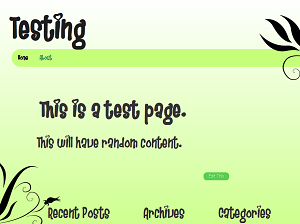
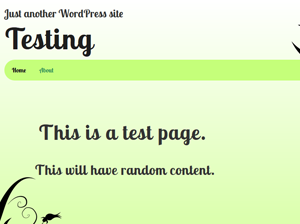
Bugfixing done.

diff --git a/style.css b/style.css
@@ -1,10 +1,10 @@
 /*
 Theme Name: Creative Foliage
 Theme URI: http://www.aniketpant.com/creative-foliage
-Description: My first theme
+Description: A clean, simple theme
 Author: Aniket Pant
 Author URI: http://www.aniketpant.com/
-Version: 1.0
+Version: 1.2
 Tags: green, one-column, fixed-width, threaded-comments, custom-menu, translation-ready
 License: GPL
 License URI: ?
@@ -40,13 +40,15 @@ h1, h2, h3, h4, h5, h6 { font-weight: normal; }
 
 body { 
 	color: #333333;
-	font: 14px/28px 'Quattrocento Sans', Georgia, 'Times New Roman', Times, serif;
+	font: 14px/28px 'Quattrocento Sans', Calibri, sans-serif;
 	background-image: -moz-linear-gradient(100% 100% 90deg, #c5ff7a, #fff);
+        overflow-x: hidden;
 }
 
 body p {
 	font-size: 16px;
 	line-height: 18px;
+        font-family: 'Quattrocento Sans', Calibri, sans-serif;
         text-rendering: optimizeLegibility;
 }
 
@@ -89,7 +91,7 @@ h6 { font-size: 16px; }
 #header h1,
 .hentry h2,
 h3 {
-	font-family: 'Lobster Two', Arial, Helvetica, sans-serif; /* Lobster Two is called via @font-face */
+	font-family: 'Lobster Two', Calibri, sans-serif
 }
 
 hr { border: 0 solid #ccc; border-top-width: 1px; clear: both; height: 0; }
@@ -119,31 +121,35 @@ pre code { background: none; }
 code { background: none; font-size: 12px; }
 
 blockquote {
-	border-left: 4px solid #32CD32;
-	border-bottom: 1px solid #32CD32;
-	color: #424242;
-	font-style: italic;
-	padding: 15px 0 10px 10px;
-	margin-left: 20px;
-	text-indent: 10px;
-	-webkit-box-shadow: inset 1px -1px 1px rgba(255, 255, 255, 0.65);
-	-moz-box-shadow: inset 1px -1px 1px rgba(255, 255, 255, 0.65);
-	box-shadow: inset 1px -1px 1px rgba(255, 255, 255, 0.65);
+		border-top: 5px solid #000;
+		border-bottom: 5px solid #000;
+		margin: 1em;
+		width: 300px;
+		clear: both;
 }
 
-blockquote p { margin: 0; }
+blockquote:nth-of-type(2n+1) {
+		float: left;
+}
+
+blockquote:nth-of-type(2n) {
+		float: right;
+}
+
+blockquote p { margin: 0; padding: 0.5em; }
 
 /* Header */
 
 #header {
 	height: 115px;
+	position: relative;
 }
 
 #header h1 a {
+	position: absolute;
 	color: #1e1e1e;
 	font-size: 76px;
 	font-weight: bold;
-	float: left;
 	margin-top: 65px;
 	padding: 20px 2px;
 	letter-spacing: 2px;
@@ -159,6 +165,10 @@ blockquote p { margin: 0; }
 	-moz-transform: rotate(15deg);
         -o-transform: rotate(15deg);
 	transform: rotate(15deg);
+}
+
+#header h2 {
+        font-family: 'Lobster Two', Calibri, sans-serif;
 }
 
 /* Content */
@@ -185,7 +195,7 @@ blockquote p { margin: 0; }
 }
 #menu {
 	background-color: #c5ff7a;
-        font-family: Lobster Two;
+        font-family: 'Lobster Two', Calibri, sans-serif;
 	-moz-border-radius: 50px;
 	list-style: none;
         padding: 5px 10px 0px;
@@ -282,6 +292,15 @@ blockquote p { margin: 0; }
 
 .hentry p { padding-right: 30px; }
 
+.hentry p:first-letter {
+        font-weight: bold;
+        width: 20px;
+        height: 20px;
+        position: absolute;
+        float: left;
+        font-size: 24px;
+}
+
 .hentry p a {
 	color: #000;
 	font-weight: bold;
@@ -299,7 +318,6 @@ blockquote p { margin: 0; }
 	display: block;
 	font-size: 54px;
 	font-weight: bold;
-	margin-left: 10px;
 	letter-spacing: 2px;
 	-webkit-transition: opacity 0.15s ease-in-out;
 	-moz-transition: opacity 0.15s ease-in-out;
@@ -313,7 +331,7 @@ blockquote p { margin: 0; }
 	text-shadow: none;
 }
 
-.hentry h3 { margin: 30px 0; line-height: 30px; }
+.hentry h3 { line-height: 30px; }
 .hentry h3 a { color: #000; text-shadow: 1px 1px 1px #228B22; }
 .hentry h3 a:hover { color: #fff; text-shadow: 1px 1px 1px #000; }
 
@@ -346,11 +364,9 @@ blockquote p { margin: 0; }
 }
 
 .widget {
-        display: inline-block;
-	overflow: hidden;
-	padding-top: 15px;
-        float: left;
-        margin-left: 100px;
+    	display: inline-table;
+    	overflow: hidden;
+    	width: 30%;
 }
 
 .widget li { line-height: 30px; }
@@ -369,6 +385,10 @@ blockquote p { margin: 0; }
 	-o-transform: rotate(20deg);
 	transform: rotate(20deg);
 }
+.widget h3 {
+	color: #333;
+        text-shadow: 1px 1px 1px #999;
+}
 .widget h3 a {
 	color: #333;
 }
@@ -383,13 +403,13 @@ blockquote p { margin: 0; }
 /* Footer */
 #footer
 {
-        border-top: 2px solid #fff;
-        padding-top: 10px;
-        width: 100%;
-        font-size: 28px;
-	letter-spacing: 2px;
-	text-align: center;
-	font-family: "Lobster Two";
+		border-top: 2px solid #fff;
+		padding-top: 10px;
+		width: 100%;
+		font-size: 18px;
+		letter-spacing: 2px;
+		text-align: right;
+		font-family: "Lobster Two", Calibri, sans-serif;
 }
 
 #footer a
@@ -598,7 +618,11 @@ img#wpstats {
 	position: absolute;
 	top: 4px;
 	left: 0;
+        -webkit-border-radius: 50px;
+        -moz-border-radius: 50px;
+        border-radius: 50px;
 }
+
 .comment-author {
 }
 .comment-author cite {
@@ -610,7 +634,6 @@ img#wpstats {
 	font-style: italic;
 }
 .commentlist .even {
-	background: #D8D8D8;
 }
 .commentlist .bypostauthor {
 }
@@ -725,24 +748,28 @@ h3#reply-title {
         transition: all 0.2s ease-in-out;
 }
 
+.bg-image {
+    position: absolute;
+    -webkit-transform: scale(0.8);
+    -moz-transform: scale(0.8);
+    transform: scale(0.8);
+    z-index: -1;
+}
+
 #image1
 {
-    position: absolute;
-    float: right;
     background: url("images/img01.png") no-repeat;
-    right: -440px;
-    top: -300px;
     width: 400px;
     height: 429px;
+    right: -50px;
+    top: -50px;
 }
 
 #image2
 {
-    position: absolute;
-    float: left;
-    left: -250px;
-    bottom: -180px;
     background: url("images/img02.png") no-repeat;
     width: 400px;
     height: 318px;
+    top: 90%;
+    left: -50px;
 }

diff --git a/comments.php b/comments.php
@@ -48,10 +48,10 @@
 			
 				<?php
 					/* Loop through and list the comments. Tell wp_list_comments()
-					 * to use foliage_list_comments() to format the comments.
-					 * See foliage_list_comments() in foliage/functions.php for more.
+					 * to use echo_list_comments() to format the comments.
+					 * See echo_list_comments() in foliage/functions.php for more.
 					 */
-					wp_list_comments( array( 'callback' => 'foliage_list_comments' ) );
+					wp_list_comments( array( 'callback' => 'echo_list_comments' ) );
 				?>
 			</ol>
 

diff --git a/footer.php b/footer.php
@@ -1,7 +1,9 @@
     <?php global $foliage_options; $foliage_settings = get_option( 'foliage_options', $foliage_options ); ?>
+    <div id="image1" class="bg-image"></div>
+    <div id="image2" class="bg-image"></div>
     <footer id="footer" class="grid_12">
 	<?php 
-		echo ('Copyright &copy; <a href="">Aniket Pant</a> 2011');
+		echo ('Creative Foliage by <a href="http://aniketpant.com">Aniket Pant</a>. Powered by <a href="http://wordpress.org">Wordpress</a>');
 	?>
 	</p>
 	</footer> <!-- end footer -->

diff --git a/single.php b/single.php
@@ -2,8 +2,6 @@
 <?php global $foliage_options; $foliage_settings = get_option( 'foliage_options', $foliage_options ); ?>
 <div id="main" class="grid_8 alpha">
 		<?php if (have_posts()) : while (have_posts()) : the_post(); ?>
-    <div id="image1"></div>
-    <div id="image2"></div>
     <div class="box">
         <article <?php post_class(); ?>>
         

diff --git a/page.php b/page.php
@@ -2,8 +2,6 @@
 
 <div id="main" class="grid_8 alpha">
 		<?php if (have_posts()) : while (have_posts()) : the_post(); ?>
-    <div id="image1"></div>
-    <div id="image2"></div>
         <article <?php post_class(); ?>>
         
             <h2><a href="<?php the_permalink(); ?>"><?php //the_title(); ?></a></h2>

diff --git a/header.php b/header.php
@@ -34,7 +34,7 @@
     <header id="header" class="grid_12">
     
     	<h1><a href="<?php echo home_url(); ?>"><?php bloginfo('name'); ?></a></h1>
-    
+			<h2><?php bloginfo('description'); ?></h2>
     </header> <!-- end header -->
 	<div id="content">
     
